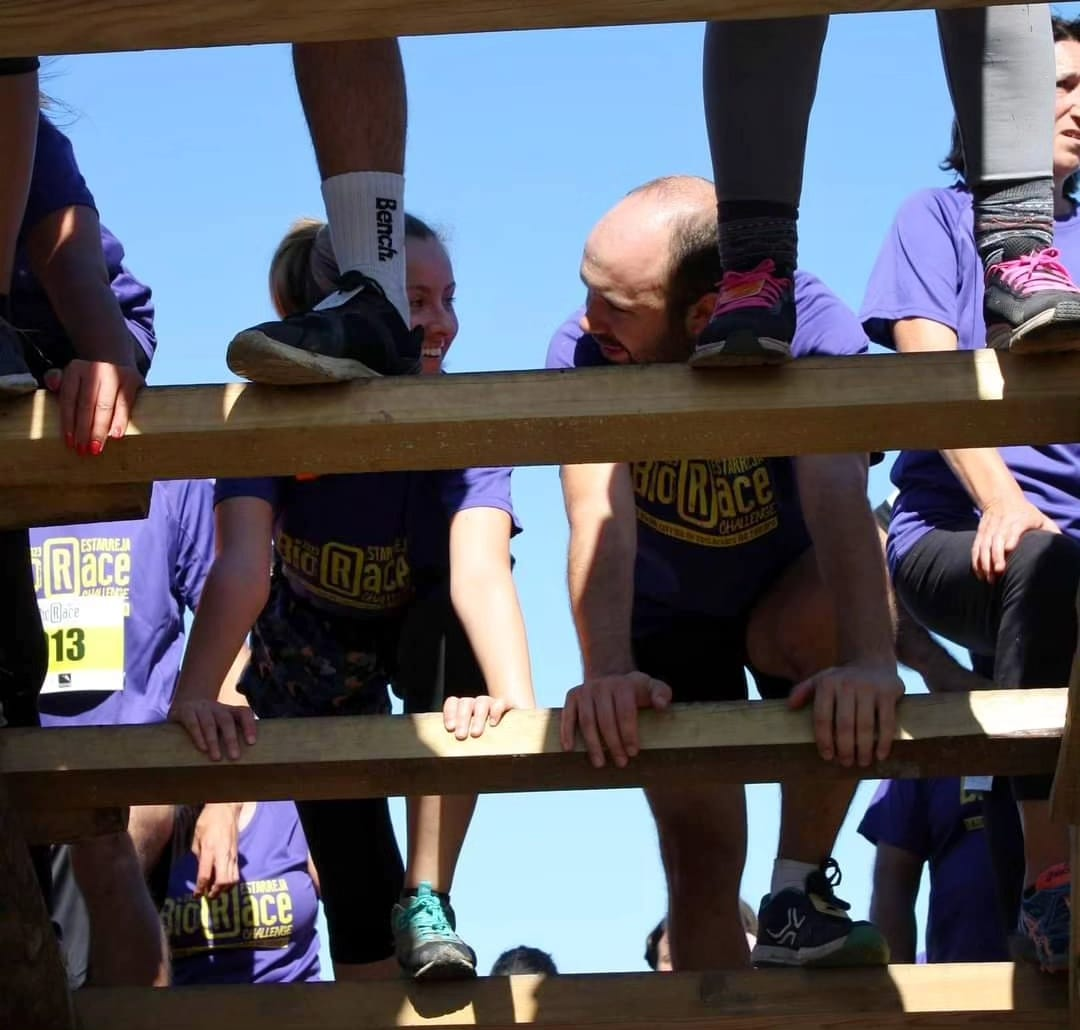
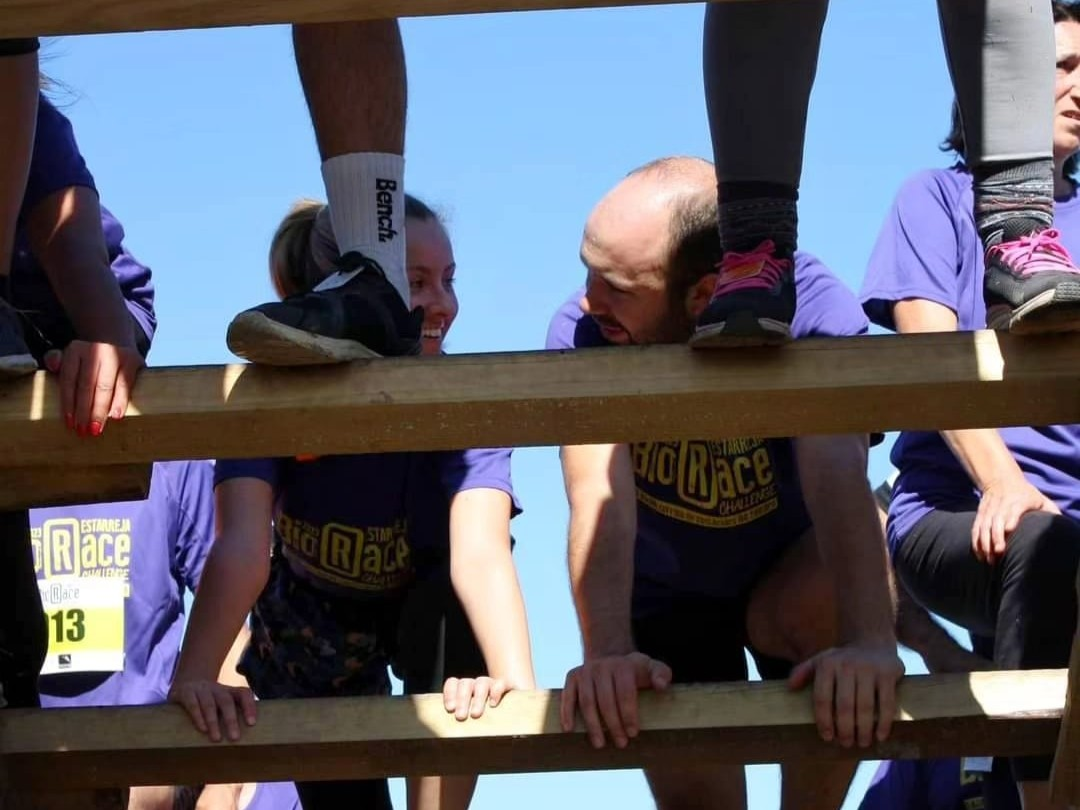
changed pics

diff --git a/index.html b/index.html
@@ -288,25 +288,25 @@
                 <div id="slideshow" class="slideshow">
                     <div class="slide-wrapper">
                         <div class="slide">
-                            <img src="img/00.jpeg" alt="Foto 0" style="width: 100%; height: 400px; object-fit: cover;">
+                            <img src="img/00.jpeg" alt="Foto 0" style="width: 100%; height: auto; object-fit: cover;">
                         </div>
                         <div class="slide">
-                            <img src="img/11.jpg" alt="Foto 1" style="width: 100%; height: 400px; object-fit: cover;">
+                            <img src="img/11.jpg" alt="Foto 1" style="width: 100%; height: auto; object-fit: cover;">
                         </div>
                         <div class="slide">
-                            <img src="img/22.jpeg" alt="Foto 2" style="width: 100%; height: 400px; object-fit: cover;">
+                            <img src="img/22.jpeg" alt="Foto 2" style="width: 100%; height: auto; object-fit: cover;">
                         </div>
                         <div class="slide">
-                            <img src="img/33.jpeg" alt="Foto 3" style="width: 100%; height: 400px; object-fit: cover;">
+                            <img src="img/33.jpeg" alt="Foto 3" style="width: 100%; height: auto; object-fit: cover;">
                         </div>
                         <div class="slide">
-                            <img src="img/44.jpeg" alt="Foto 4" style="width: 100%; height: 400px; object-fit: cover;">
+                            <img src="img/44.jpeg" alt="Foto 4" style="width: 100%; height: auto; object-fit: cover;">
                         </div>
                         <div class="slide">
-                            <img src="img/55.jpeg" alt="Foto 5" style="width: 100%; height: 400px; object-fit: cover;">
+                            <img src="img/55.jpeg" alt="Foto 5" style="width: 100%; height: auto; object-fit: cover;">
                         </div>
                         <div class="slide">
-                            <img src="img/66.jpg" alt="Foto 6" style="width: 100%; height: 400px; object-fit: cover;">
+                            <img src="img/66.jpg" alt="Foto 6" style="width: 100%; height: auto; object-fit: cover;">
                         </div>
                     </div>
                 </div>
